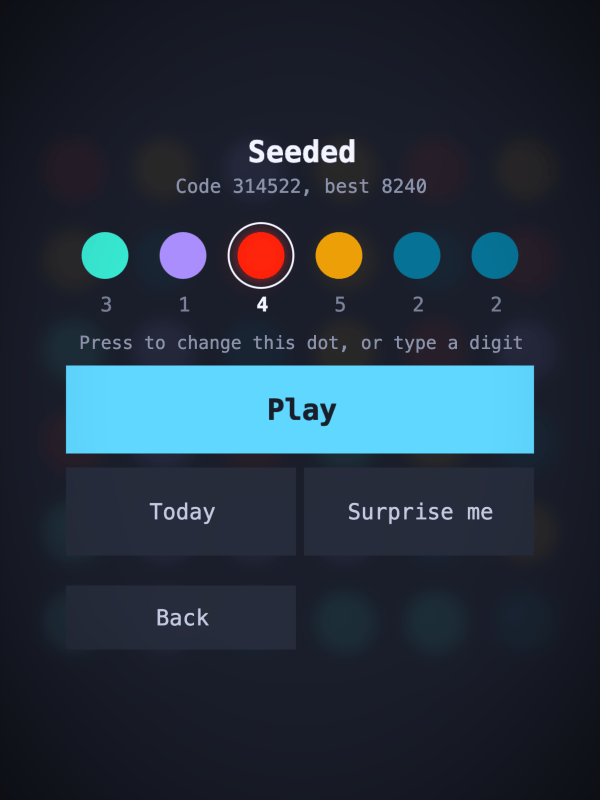
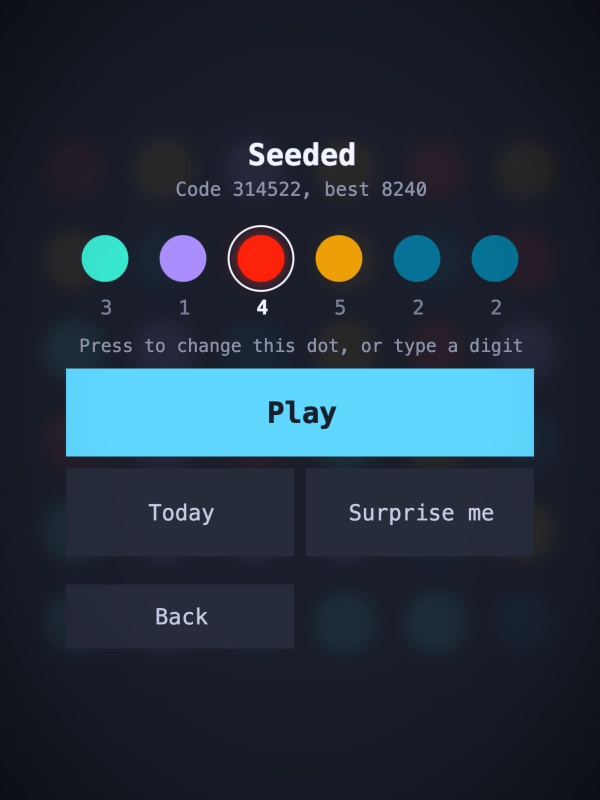
Inertia on the puzzle list, even gaps, and a pause screen that says where you are
Dragging the ladder was tedious for two reasons. A finger's delta arrives
in CSS pixels and the list is in view units, so on a phone - where the
field is scaled to about two thirds - the list moved a third less far than
the finger asking for it. And it stopped dead when the finger came off. It
now tracks the finger and carries on, slowing over about half a second,
which crosses thirteen lines of puzzles in two flicks. A frame's worth of
movement is what says how fast, so the push is banked by the input layer
and worked out once a frame against that frame's own dt; the carry stops at
either end of the list rather than pushing against it.

The gaps across a block of buttons were 12 and down it 20: BUTTON_GAP plus
six of trailing padding that only applied vertically. One number both ways
now, and the padding is gone.

And the pause screen says which board is being played - which puzzle of how
many and its name, or which code - and what it has scored, against a
level's par or against the record where there is one. The same words the
page shows are the words it speaks, which is the point: a player who cannot
read the score off the board can pause and be told it.

diff --git a/src/view.js b/src/view.js
@@ -22,7 +22,9 @@ const HUD_BOTTOM = VIEW_H - 74
 // what keeps a heading off the top edge of its panel.
 const PANEL_PAD = 26
 const BUTTON_H = 88
-const BUTTON_GAP = 8
+// The same gap across a block of buttons as down it. A row of buttons is one row, so the
+// space between two of them should not depend on which way round they sit.
+const BUTTON_GAP = 12
 const OPTION_H = 58
 const PREVIEW_H = 60
 const HEADING_H = 30
@@ -61,6 +63,11 @@ const MENU_W = 520
 // see the shape of what is ahead without the cells becoming too small to tell apart.
 const LEVEL_GAP = 8
 const LEVEL_LINES = 4
+// How a flicked list slows: the rate its speed decays at per second, and the speed below
+// which it has stopped. Half a second's coast, which is long enough to cross the ladder in
+// two flicks and short enough not to have to be caught.
+const SCROLL_DRAG = 6
+const SCROLL_STOP = 20
 
 // The seed picker's strip of dots. Tall enough for a dot with the ring that marks the cursor
 // around it and the digit it stands for under it, since the digit is what gets written down.
@@ -84,6 +91,14 @@ export class GameView {
     // Which cell the scroll was last pulled to, so the pull happens as the cursor moves and not
     // on every frame. Null while the picker's grid is not the row under the cursor.
     this.levelCursor = null
+    // What a dragging finger has asked for since the last frame, whether one is down, and how
+    // fast the list is travelling once it is not. See dragLevels.
+    this.levelPush = 0
+    this.levelHeld = false
+    this.levelVelocity = 0
+    // The clock the carry is stepped on, taken from the game's own so the view needs no
+    // second one. Null until the first frame.
+    this.lastTime = null
   }
 
   // Which menu row a point in view space is over, and which of its options if it is a
@@ -98,10 +113,30 @@ export class GameView {
     return null
   }
 
-  // Scroll the level picker, from a wheel or a dragging finger. Clamped when it is drawn,
-  // which is the only place the extent is known.
+  // Scroll the level picker. `by` is in CSS pixels either way, since that is what a wheel
+  // and a finger both report, and the list is in view units: on a phone the field is scaled
+  // to about two thirds, so an unconverted delta moves the list a third less far than the
+  // finger that asked for it, which is most of what makes dragging one feel like work.
+  // Clamped when it is drawn, which is the only place the extent is known.
+  #inViewUnits(by) {
+    return by / (this.rect.scale || 1)
+  }
+
+  // A wheel is a series of nudges and wants none of the carry a finger does.
   scrollLevels(by) {
-    this.levelScroll += by
+    this.levelScroll += this.#inViewUnits(by)
+  }
+
+  // A finger, which does. The push is banked rather than applied, so how fast the list is
+  // going can be worked out once a frame against that frame's own dt; see #stepLevelScroll.
+  dragLevels(by) {
+    this.levelPush += this.#inViewUnits(by)
+    this.levelHeld = true
+  }
+
+  // And the finger comes off, leaving the list travelling at whatever it was doing.
+  releaseLevels() {
+    this.levelHeld = false
   }
 
   // Is this point on the pause button? Only while it is drawn, which is while a board
@@ -711,7 +746,7 @@ export class GameView {
     if (row.kind === "buttons") {
       const metrics = this.#buttonMetrics(row)
       const lines = Math.ceil(row.options.length / (row.columns || row.options.length))
-      return metrics.top + lines * (metrics.height + BUTTON_GAP) + 6
+      return metrics.top + lines * (metrics.height + BUTTON_GAP)
     }
     if (row.kind === "options") {
       return (row.options.some((option) => option.preview) ? PREVIEW_H : OPTION_H) + ROW_GAP
@@ -906,6 +941,8 @@ export class GameView {
     const lines = Math.ceil(row.options.length / columns)
     const overflow = Math.max(0, lines * step - LEVEL_GAP - rowHeight)
 
+    this.#stepLevelScroll(game)
+
     // Follow the cursor: whichever line it is on has to be on screen, so moving onto a line that
     // is not scrolls the grid to it. As the cursor moves, and not on every frame: a wheel or a
     // dragging finger scrolls further than the cursor can go, since the cursor stops at the last
@@ -916,8 +953,15 @@ export class GameView {
       this.levelCursor = game.menuOption
       const line = Math.floor(game.menuOption / columns)
       this.levelScroll = clamp(this.levelScroll, line * step + cell - rowHeight, line * step)
+      this.levelVelocity = 0
     }
-    this.levelScroll = clamp(this.levelScroll, 0, overflow)
+    const held = clamp(this.levelScroll, 0, overflow)
+    if (held !== this.levelScroll) {
+      // The end of the list, so whatever it was carrying stops there rather than pushing on
+      // against the edge for the rest of the second.
+      this.levelScroll = held
+      this.levelVelocity = 0
+    }
 
     renderer.clip(x, rowY, width, rowHeight)
     row.options.forEach((option, optionIndex) => {
@@ -955,6 +999,37 @@ export class GameView {
         alpha: 0.5,
         radius: 2,
       })
+    }
+  }
+
+  // A dragged list keeps going when the finger comes off, and slows down rather than
+  // stopping dead: a ladder fifty-two long is thirteen lines, and taking it four at a time
+  // by hand is the difference between flicking through it and hauling it.
+  //
+  // Stepped from the game's own clock, so the view needs no second one. A frame's worth of
+  // finger movement is what says how fast the list is going, which is why the push is banked
+  // by dragLevels rather than applied where it arrives.
+  #stepLevelScroll(game) {
+    const dt = this.lastTime === null ? 0 : Math.max(0, Math.min(game.time - this.lastTime, 0.05))
+    this.lastTime = game.time
+    if (this.levelPush !== 0) {
+      this.levelScroll += this.levelPush
+      this.levelVelocity = dt > 0 ? this.levelPush / dt : 0
+      this.levelPush = 0
+      return
+    }
+    if (this.levelHeld) {
+      // Down and still: the list is being held, not thrown.
+      this.levelVelocity = 0
+      return
+    }
+    if (this.levelVelocity === 0 || dt === 0) {
+      return
+    }
+    this.levelScroll += this.levelVelocity * dt
+    this.levelVelocity *= Math.exp(-SCROLL_DRAG * dt)
+    if (Math.abs(this.levelVelocity) < SCROLL_STOP) {
+      this.levelVelocity = 0
     }
   }
 
@@ -1225,13 +1300,23 @@ export class GameView {
         return [{ text: PAGE_TITLES.settings, colour: theme.text.bright, size: 30, bold: true }]
       case "controls":
         return [{ text: PAGE_TITLES.controls, colour: theme.text.bright, size: 30, bold: true }]
-      default:
+      default: {
         // The pause menu is where the mode says what it is: read once, on the one page that
-        // is asked for rather than always there, and out of the way of the board.
-        return [
-          { text: game.mode.name, colour: theme.text.bright, size: 30, bold: true },
-          { text: game.mode.blurb, colour: theme.text.dim, size: 19 },
-        ]
+        // is asked for rather than always there, and out of the way of the board. And where a
+        // board has a name it says which one, since the strip under the board is the only
+        // other place that does and a paused game is the moment to check.
+        //
+        // The score with it, which is the one figure a player might pause to look up. Same
+        // words as pageSpeech, so it is also the one they can pause to be told.
+        const lines = [{ text: game.mode.name, colour: theme.text.bright, size: 30, bold: true }]
+        lines.push({
+          text: game.boardName || game.mode.blurb,
+          colour: theme.text.dim,
+          size: 19,
+        })
+        lines.push({ text: game.scoreLine, colour: theme.accent, size: 22, bold: true })
+        return lines
+      }
     }
   }
 }

diff --git a/test/view.test.js b/test/view.test.js
@@ -389,6 +389,82 @@ test("the clock draws at every point of its run", () => {
   }
 })
 
+test("a flicked puzzle list carries on, and a held one stays put", () => {
+  const game = new Game()
+  game.start("puzzle")
+  game.page = "levels"
+  const view = new GameView(new Recorder())
+  view.content = { x: 0, y: 0, width: VIEW_W, height: VIEW_H }
+  const frame = () => {
+    game.advance(1 / 60)
+    view.render(game)
+  }
+  // One frame to set the clock and let the cursor pull the grid to where it opens.
+  frame()
+  const opened = view.levelScroll
+
+  // A finger drags, and the frame it lands in is what says how fast.
+  view.dragLevels(90)
+  frame()
+  const dragged = view.levelScroll
+  assert.ok(dragged > opened, "the list follows the finger")
+
+  // Still down, not moving: being held, not thrown.
+  frame()
+  assert.equal(view.levelScroll, dragged, "a held list stays where it is put")
+
+  // And off it comes.
+  view.dragLevels(90)
+  frame()
+  const thrown = view.levelScroll
+  view.releaseLevels()
+  frame()
+  assert.ok(view.levelScroll > thrown, "the list carries on once the finger is off it")
+
+  // Which slows, rather than running for ever.
+  for (let i = 0; i < 120; i++) {
+    frame()
+  }
+  const settled = view.levelScroll
+  frame()
+  assert.equal(view.levelScroll, settled, "and comes to rest")
+})
+
+test("the pause page says which board and what it has paid", () => {
+  const puzzle = new Game()
+  puzzle.start("puzzle")
+  puzzle.togglePause()
+  const spoken = puzzle.pageSpeech()
+  assert.match(spoken, /^Puzzle\. 1 of \d+/, "the mode, then which of how many, and not twice")
+  assert.match(spoken, new RegExp(puzzle.currentLevel.name), "and its name")
+  assert.match(spoken, /Scored 0 of \d+/, "and what it has paid against its par")
+  // The page shows the same words it says.
+  const shown = drawn(puzzle)
+    .filter((call) => call.kind === "text")
+    .map((call) => call.opts.str)
+  assert.ok(shown.includes(puzzle.boardName), "the board is named on the page")
+  assert.ok(shown.includes(puzzle.scoreLine), "and so is the score")
+
+  const seeded = new Game()
+  seeded.start("seeded")
+  seeded.togglePause()
+  assert.match(seeded.pageSpeech(), /Code \d{6}/, "a seeded board is named by its code")
+
+  // A mode that deals its own board has nothing to name, and still says the score.
+  const classic = new Game()
+  classic.start("classic")
+  classic.togglePause()
+  assert.equal(classic.boardName, null)
+  assert.match(classic.pageSpeech(), /Scored 0/)
+  assert.ok(
+    drawn(classic)
+      .filter((call) => call.kind === "text")
+      .map((call) => call.opts.str)
+      .includes(classic.mode.blurb),
+    "so it says what the mode is instead",
+  )
+})
+
 test("the banner a first game opens with fits the field", () => {
   const game = new Game()
   // The welcome, in the game's own words: launch with nothing remembered raises it.

diff --git a/src/game.js b/src/game.js
@@ -610,6 +610,34 @@ export class Game {
     return !this.mode.levels || this.level >= this.mode.levels.length - 1
   }
 
+  // ---- what is being played, in words ------------------------------------
+  // Which board this is, for a mode where a board has a name: which puzzle of how many, or
+  // which code. Null for a mode that deals its own, where there is nothing to name.
+  get boardName() {
+    const level = this.currentLevel
+    if (level) {
+      // Not "Puzzle 1 of 52": the mode's own name is the line above this one wherever this is
+      // used, and read out it came to "Puzzle. Puzzle 1 of 52."
+      return `${this.level + 1} of ${this.mode.levels.length}, ${level.name}`
+    }
+    if (this.mode.seeded) {
+      return `Code ${this.seedText}`
+    }
+    return null
+  }
+
+  // What has been scored, against whatever this board is worth comparing with: a level's par,
+  // or the record for the mode or the code. Both the pause page and its announcement come off
+  // this, so a player who cannot see the score can pause and be told it.
+  get scoreLine() {
+    if (this.currentLevel && this.levelPar > 0) {
+      return `Scored ${this.levelScore} of ${this.levelPar}`
+    }
+    const best = this.bestScore
+    const scored = `Scored ${this.player.score}`
+    return best > 0 ? `${scored}, best ${best}` : scored
+  }
+
   // A board for the title screen to sit over, so the game shows itself instead of offering a
   // menu on an empty field. It is dealt and left alone: nothing is
   // playing it, and starting a mode deals a fresh one.
@@ -1981,7 +2009,9 @@ export class Game {
       return `${this.outcomeText}. ${this.player.score}${record ? ", best yet" : ""}`
     }
     if (this.page === "pause") {
-      return this.mode.name
+      // The same words the page shows, which is the point of pausing for anyone who cannot
+      // read the score off the board: what is being played, and what it has paid so far.
+      return [this.mode.name, this.boardName, this.scoreLine].filter(Boolean).join(". ")
     }
     // Why this page is the page being looked at, said before what is on it: a player who did
     // not ask for it needs to hear that first.

diff --git a/src/input.js b/src/input.js
@@ -259,7 +259,7 @@ export class PointerInput {
       this.dragFrom !== null &&
       event.pointerId === this.activePointer
     ) {
-      this.view.scrollLevels(this.dragFrom - event.clientY)
+      this.view.dragLevels(this.dragFrom - event.clientY)
       this.dragFrom = event.clientY
       return
     }
@@ -291,6 +291,9 @@ export class PointerInput {
     }
     this.activePointer = null
     const scrolled = this.dragFrom !== null && Math.abs(this.dragFrom - event.clientY) > 6
+    if (this.dragFrom !== null) {
+      this.view.releaseLevels()
+    }
     this.dragFrom = null
     if (scrolled) {
       // A drag that moved the picker is not a press on whatever it started over.
@@ -330,6 +333,9 @@ export class PointerInput {
     this.activePointer = null
     this.pressedRow = null
     this.pressedPause = false
+    if (this.dragFrom !== null) {
+      this.view.releaseLevels()
+    }
     this.dragFrom = null
     this.game.cancelChain(this.playerIndex)
   }
